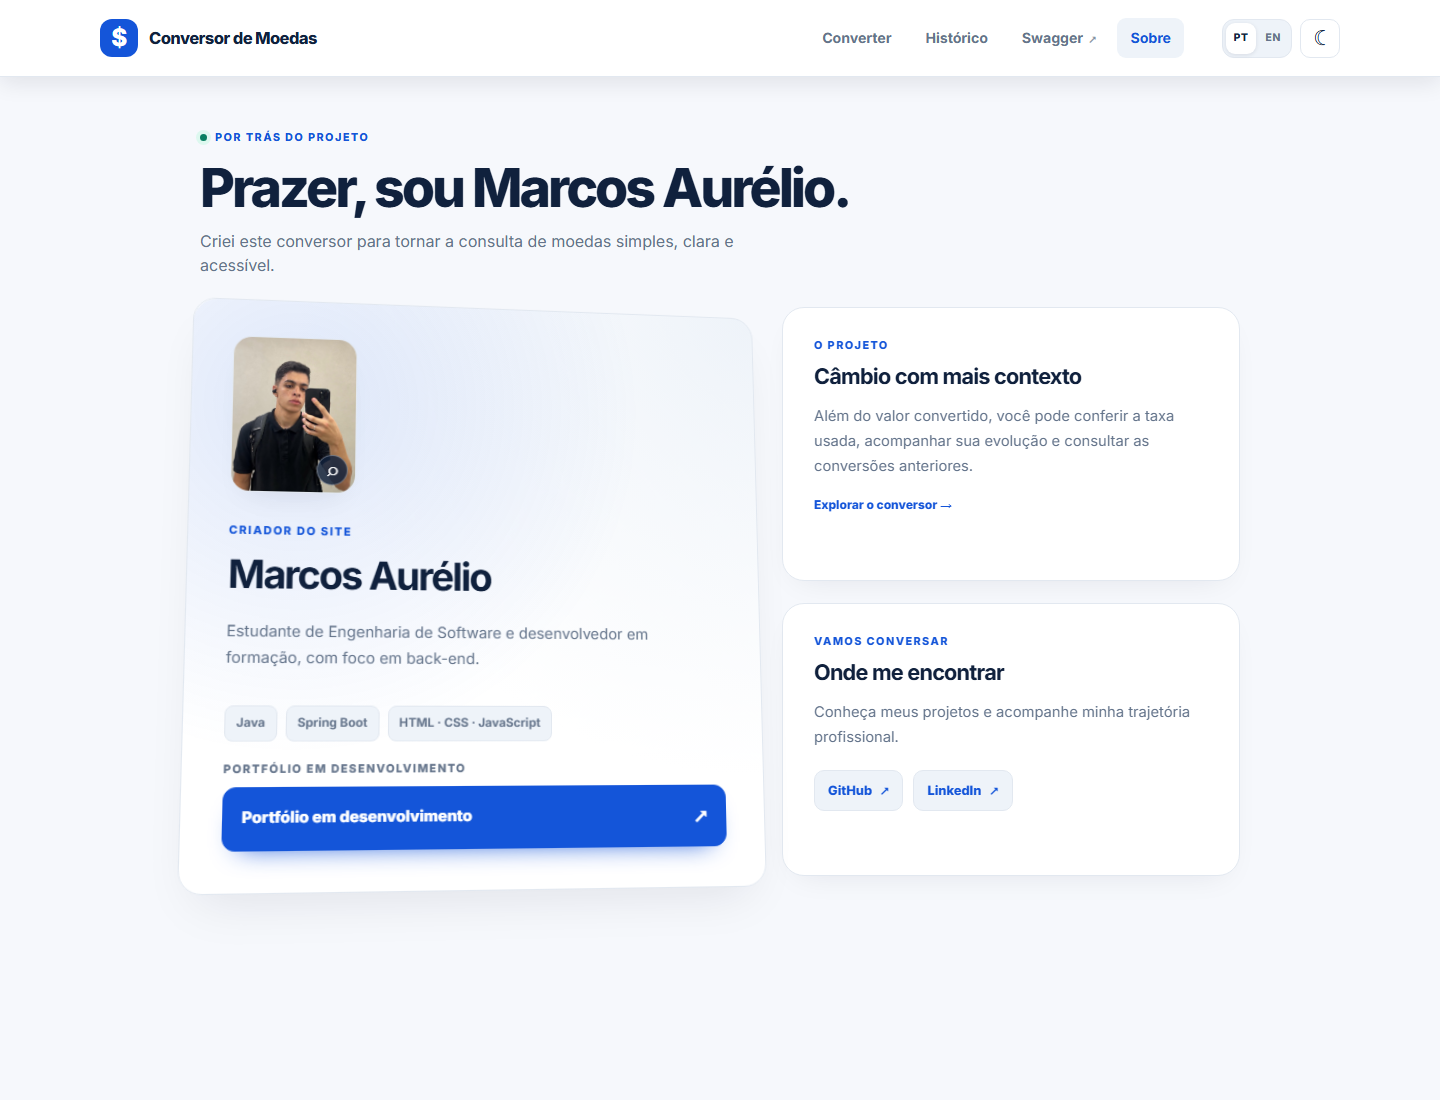
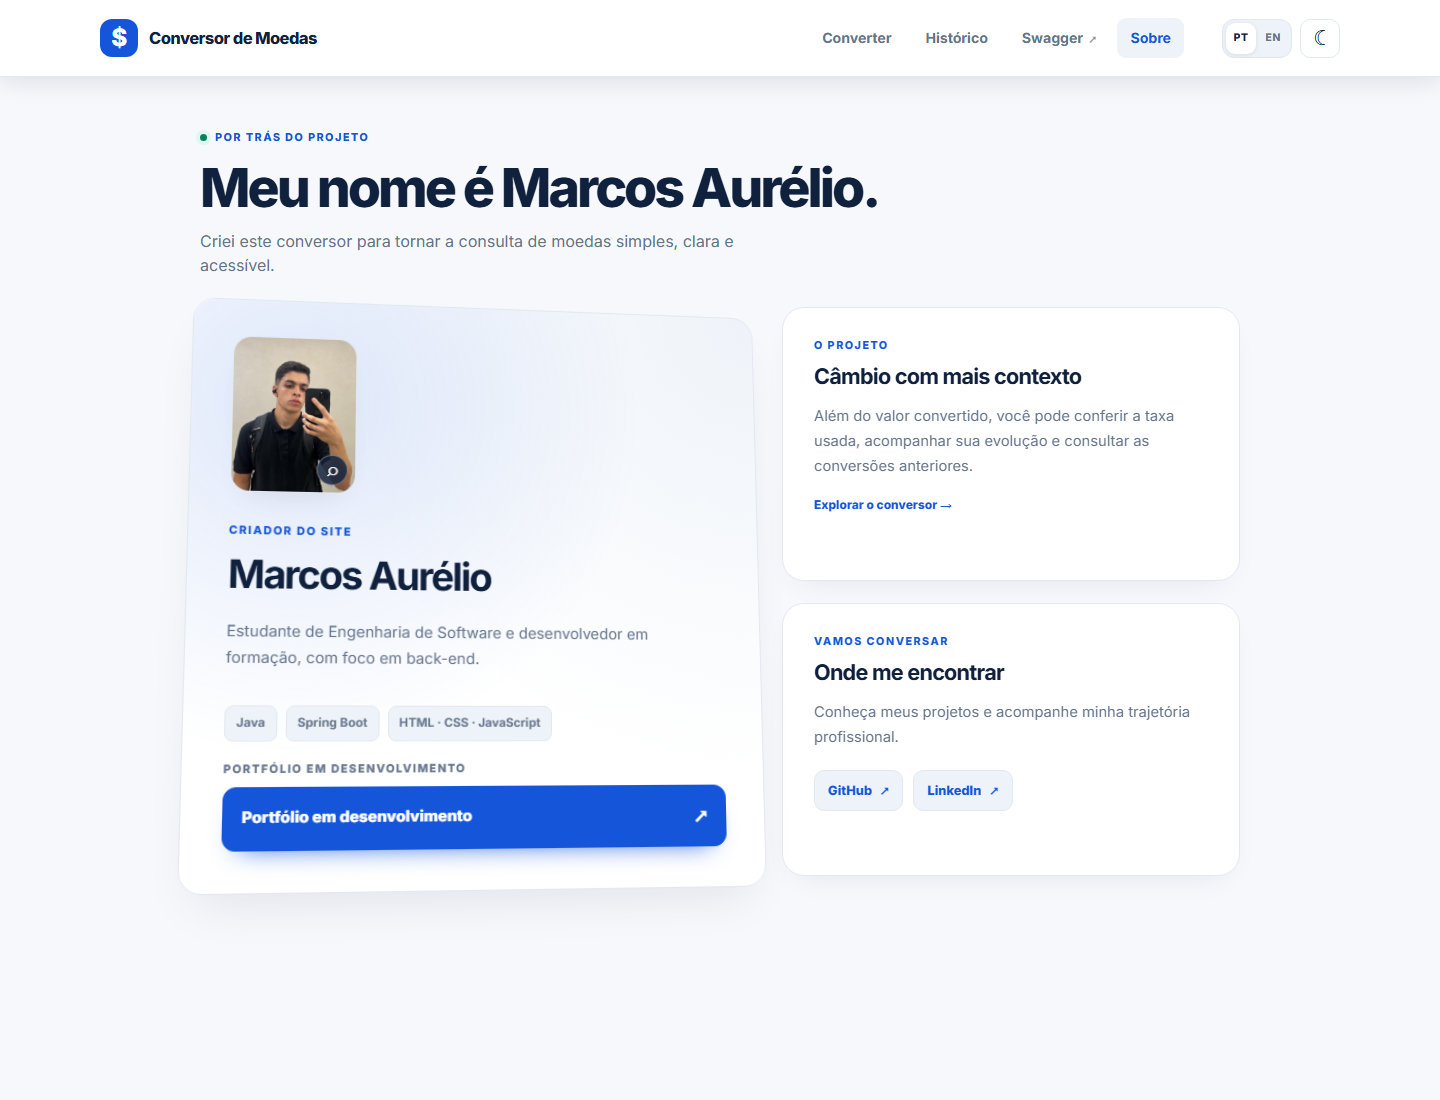
fix: update about page introduction

Changed region(s): [[0.125, 0.1545, 0.625, 0.1855]]

diff --git a/src/main/resources/static/js/app.js b/src/main/resources/static/js/app.js
@@ -54,7 +54,7 @@ const translations = {
     clearing: "Limpando histórico...",
     clearedMessage: "Histórico limpo com sucesso.",
     aboutEyebrow: "POR TRÁS DO PROJETO",
-    aboutTitle: "Prazer, sou Marcos Aurélio.",
+    aboutTitle: "Meu nome é Marcos Aurélio.",
     aboutSubtitle:
       "Criei este conversor para tornar a consulta de moedas simples, clara e acessível.",
     aboutCreatorLabel: "CRIADOR DO SITE",
@@ -151,7 +151,7 @@ const translations = {
     clearing: "Clearing history...",
     clearedMessage: "History cleared successfully.",
     aboutEyebrow: "BEHIND THE PROJECT",
-    aboutTitle: "Hi, I'm Marcos Aurélio.",
+    aboutTitle: "My name is Marcos Aurélio.",
     aboutSubtitle:
       "I created this converter to make currency information simple, clear, and accessible.",
     aboutCreatorLabel: "SITE CREATOR",

diff --git a/src/main/resources/templates/about.html b/src/main/resources/templates/about.html
@@ -59,7 +59,7 @@
                     <span class="status-dot"></span>
                     <span data-i18n="aboutEyebrow">POR TRÁS DO PROJETO</span>
                 </p>
-                <h1 id="aboutTitle" data-i18n="aboutTitle">Prazer, sou Marcos Aurélio.</h1>
+                <h1 id="aboutTitle" data-i18n="aboutTitle">Meu nome é Marcos Aurélio.</h1>
                 <p class="page-subtitle" data-i18n="aboutSubtitle">Criei este conversor para tornar a consulta de moedas simples, clara e acessível.</p>
             </div>
             <div class="about-grid">

diff --git a/README.md b/README.md
@@ -16,7 +16,7 @@ Capturas feitas em 24/09/2026 com a aplicação local. Os dois temas mostram a m
 | --- | --- |
 | ![Página Sobre no tema claro](docs/screenshots/sobre-claro.png) | ![Página Sobre no tema escuro](docs/screenshots/sobre-escuro.png) |
 
-As capturas mostram o card do criador com o ponteiro sobre ele, revelando a inclinação 3D e o foco de luz. Os três cards respondem ao ponteiro; o maior usa um movimento mais suave. O efeito é desativado em dispositivos sem ponteiro preciso e quando o sistema solicita movimento reduzido.
+O título "Meu nome é Marcos Aurélio." apresenta o criador do projeto. As capturas mostram seu card com o ponteiro sobre ele, revelando a inclinação 3D e o foco de luz. Os três cards respondem ao ponteiro; o maior usa um movimento mais suave. O efeito é desativado em dispositivos sem ponteiro preciso e quando o sistema solicita movimento reduzido.
 
 ## O que dá para fazer
 
